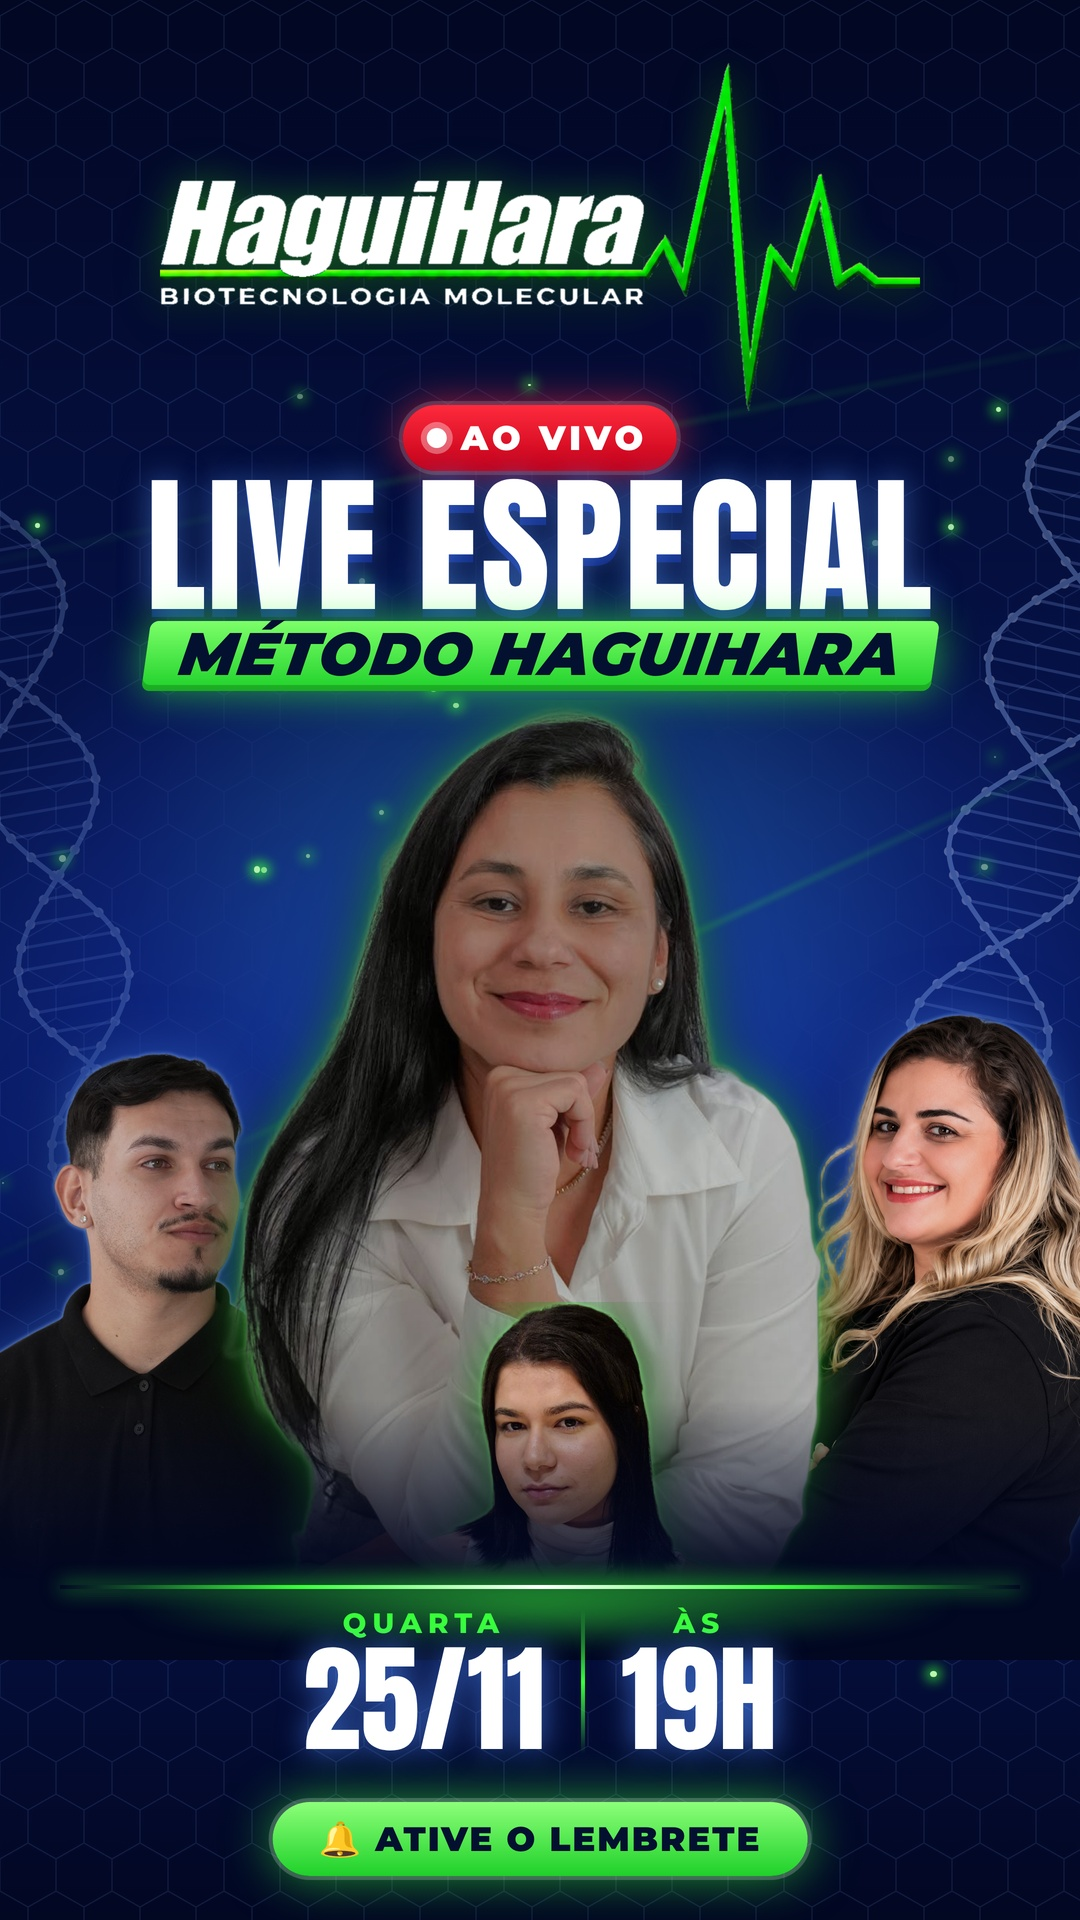
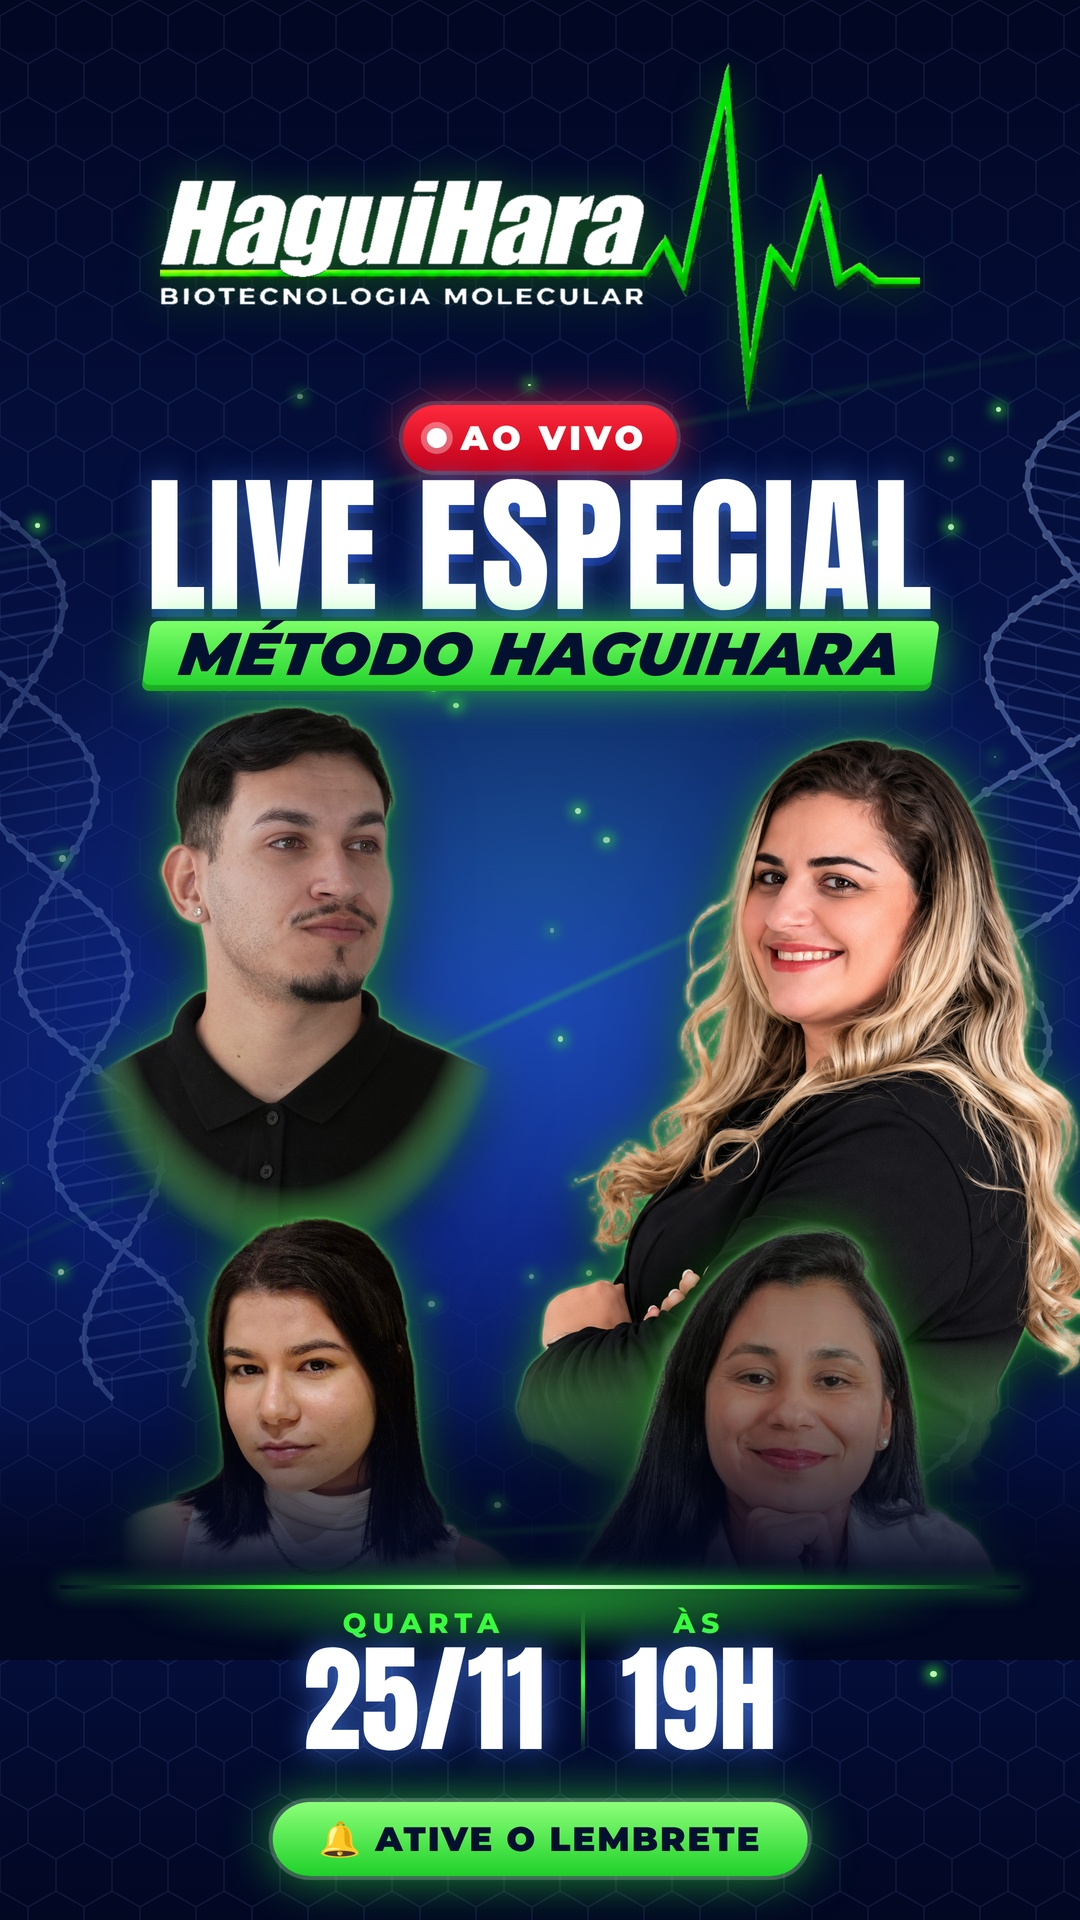
Thumbnail: todos do mesmo tamanho em grade 2x2
Claude-Session: https://claude.ai/code/session_01K6wviLC7jNScPwdNJSoC5f

diff --git a/thumbnails/live-25-11/projeto.html b/thumbnails/live-25-11/projeto.html
@@ -53,14 +53,12 @@ svg.bg{position:absolute;inset:0}
  <div class="badge"><i></i>AO VIVO</div>
  <div class="title"><div class="t1">LIVE ESPECIAL</div><div class="t2">MÉTODO HAGUIHARA</div></div>
  <div class="people">
-  <!-- Você (ponta esquerda) -->
-  <img class="p back" src="recortes/p2.png" style="height:568px;left:-37px;bottom:-20px">
-  <!-- Anne (ponta direita) -->
-  <img class="p back" src="recortes/p1.png" style="height:607px;left:680px;bottom:-20px">
-  <!-- Grazi (grande, centro) -->
-  <img class="p" src="recortes/p4.png" style="height:960px;left:221px;bottom:-60px">
-  <!-- Yasmin (menor, centro abaixo da Grazi) -->
-  <img class="p" src="recortes/p3.png" style="height:318px;left:411px;bottom:-20px;-webkit-mask-image:linear-gradient(90deg,transparent 0,#000 18%,#000 82%,transparent 100%)">
+  <!-- Linha de cima: Você (esq.) e Anne (dir.) -->
+  <img class="p" src="recortes/p2_soft.png" style="height:703px;left:48px;bottom:192px">
+  <img class="p" src="recortes/p1_soft.png" style="height:752px;left:515px;bottom:111px">
+  <!-- Linha de baixo: Yasmin (esq.) e Grazi (dir.) -->
+  <img class="p" src="recortes/p3_soft.png" style="height:394px;left:120px;bottom:-10px">
+  <img class="p" src="recortes/p4.png" style="height:765px;left:536px;bottom:-381px">
  </div>
  <div class="fade"></div>
  <div class="floor"></div>
